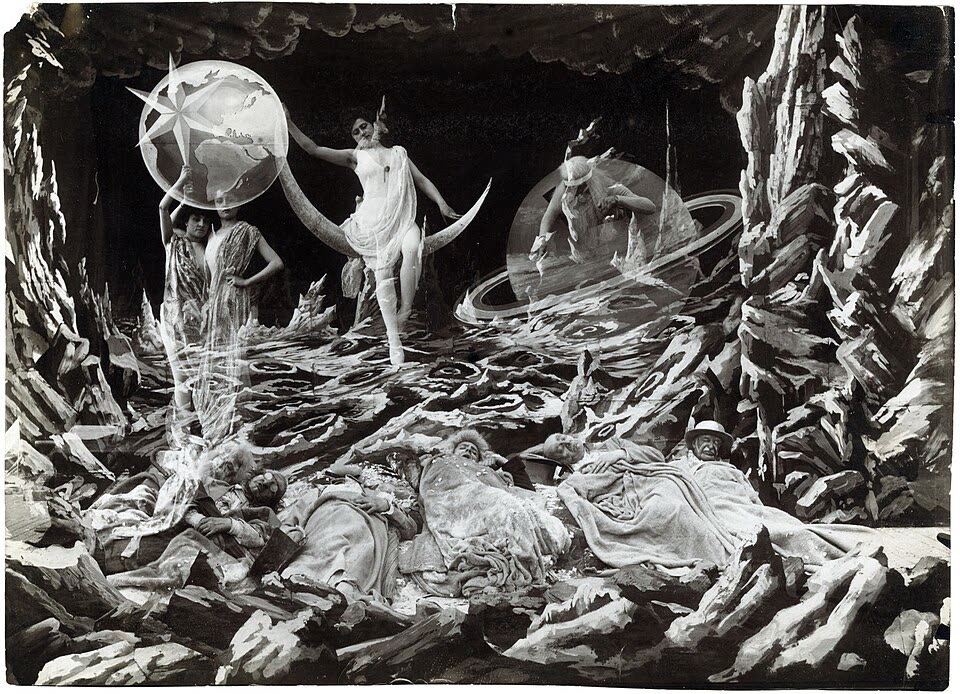
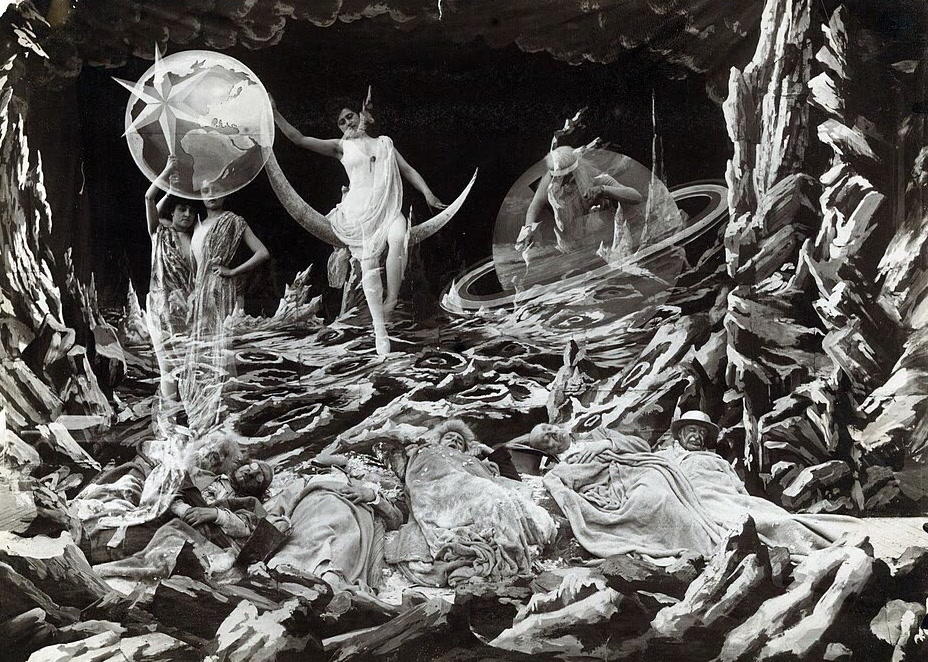
Ореол: full-height shade on game screens, trim moon.jpg scan border
Claude-Session: https://claude.ai/code/session_01W3jCqyrYvoVnDwPum2J7Wa

diff --git a/oreol-app.html b/oreol-app.html
@@ -624,7 +624,7 @@ body {
 .gcard.focus .cv { transform: scale(1.06); box-shadow: 0 0 0 4px var(--fg), 0 26px 60px var(--shadow); }
 .game { background: #0A0A0D; color: #F5F5F7; }
 .gbg { position: absolute; inset: 0; width: 100%; height: 100%; object-fit: cover; opacity: .55; }
-.game .shade { background: linear-gradient(90deg, rgba(10,10,13,.95) 0%, rgba(10,10,13,.6) 55%, transparent); }
+.game > .shade { height: auto; background: linear-gradient(90deg, rgba(10,10,13,.95) 0%, rgba(10,10,13,.6) 55%, rgba(10,10,13,.15)), linear-gradient(0deg, rgba(10,10,13,.6), transparent 45%); }
 .game .hero-in { top: 170px; }
 .agebig { display: inline-grid; place-items: center; min-width: 150px; height: 108px; padding: 0 24px; border-radius: 24px; font: 900 72px/1 var(--d1); letter-spacing: -.04em; box-shadow: inset 0 0 0 5px #F5F5F7; }
 .gl { list-style: none; margin: 30px 0 0; padding: 0; display: grid; gap: 14px; font-size: 28px; font-weight: 600; }
@@ -1000,7 +1000,7 @@ html.as-phone .page::-webkit-scrollbar { display: none; }
 .tv.mob .gcard b { margin-top: 6px; font-size: 13px; }
 .tv.mob .gcard > span { font-size: 11px; }
 .tv.mob .game .hero-in { position: absolute; left: 16px; right: 16px; top: auto; bottom: 18px; margin: 0; }
-.tv.mob .game .shade { background: linear-gradient(0deg, rgba(10,10,13,.96) 0, rgba(10,10,13,.6) 60%, transparent); }
+.tv.mob .game > .shade { background: linear-gradient(0deg, rgba(10,10,13,.96) 0, rgba(10,10,13,.6) 60%, transparent); }
 .tv.mob .agebig { min-width: 64px; height: 46px; padding: 0 10px; font-size: 28px; border-radius: 12px; box-shadow: inset 0 0 0 3px #F5F5F7; }
 .tv.mob .gl { margin-top: 10px; gap: 6px; font-size: 13px; }
 .tv.mob .gl svg { width: 16px; height: 16px; }
